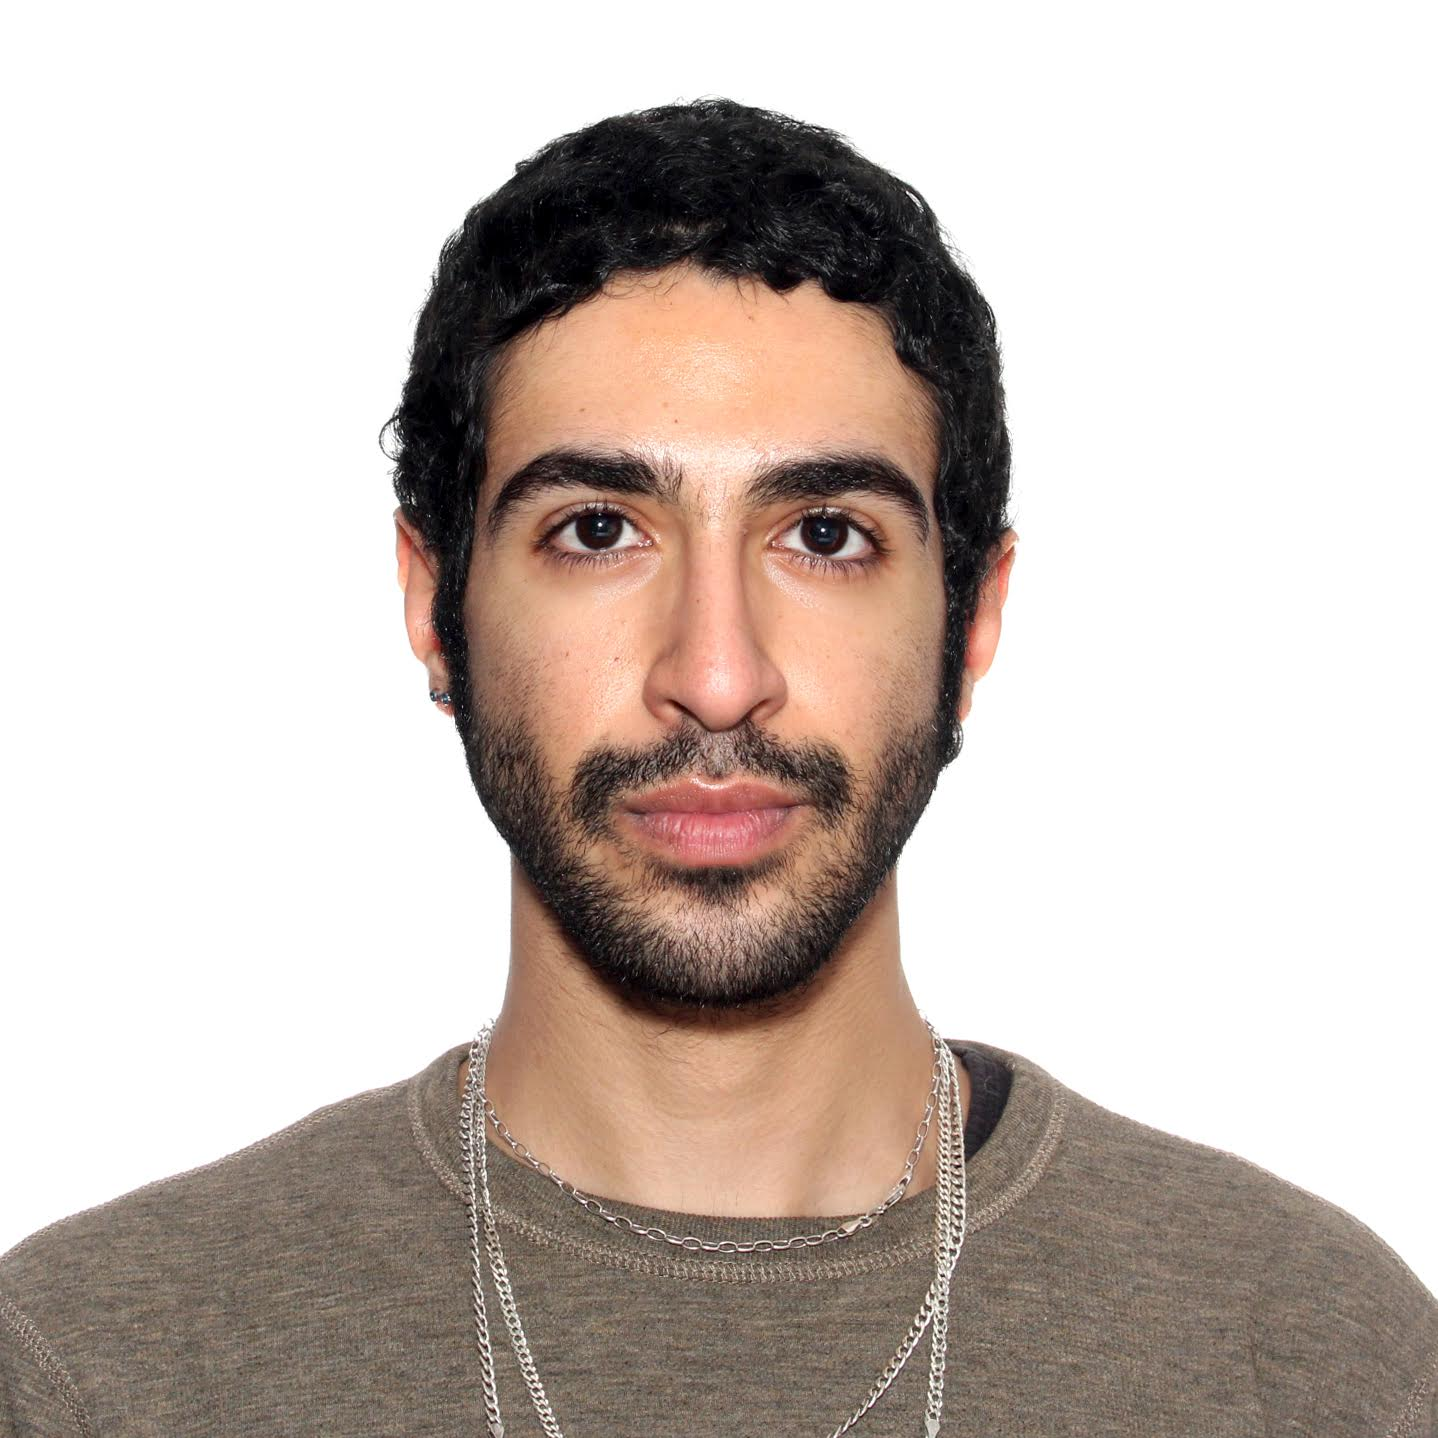
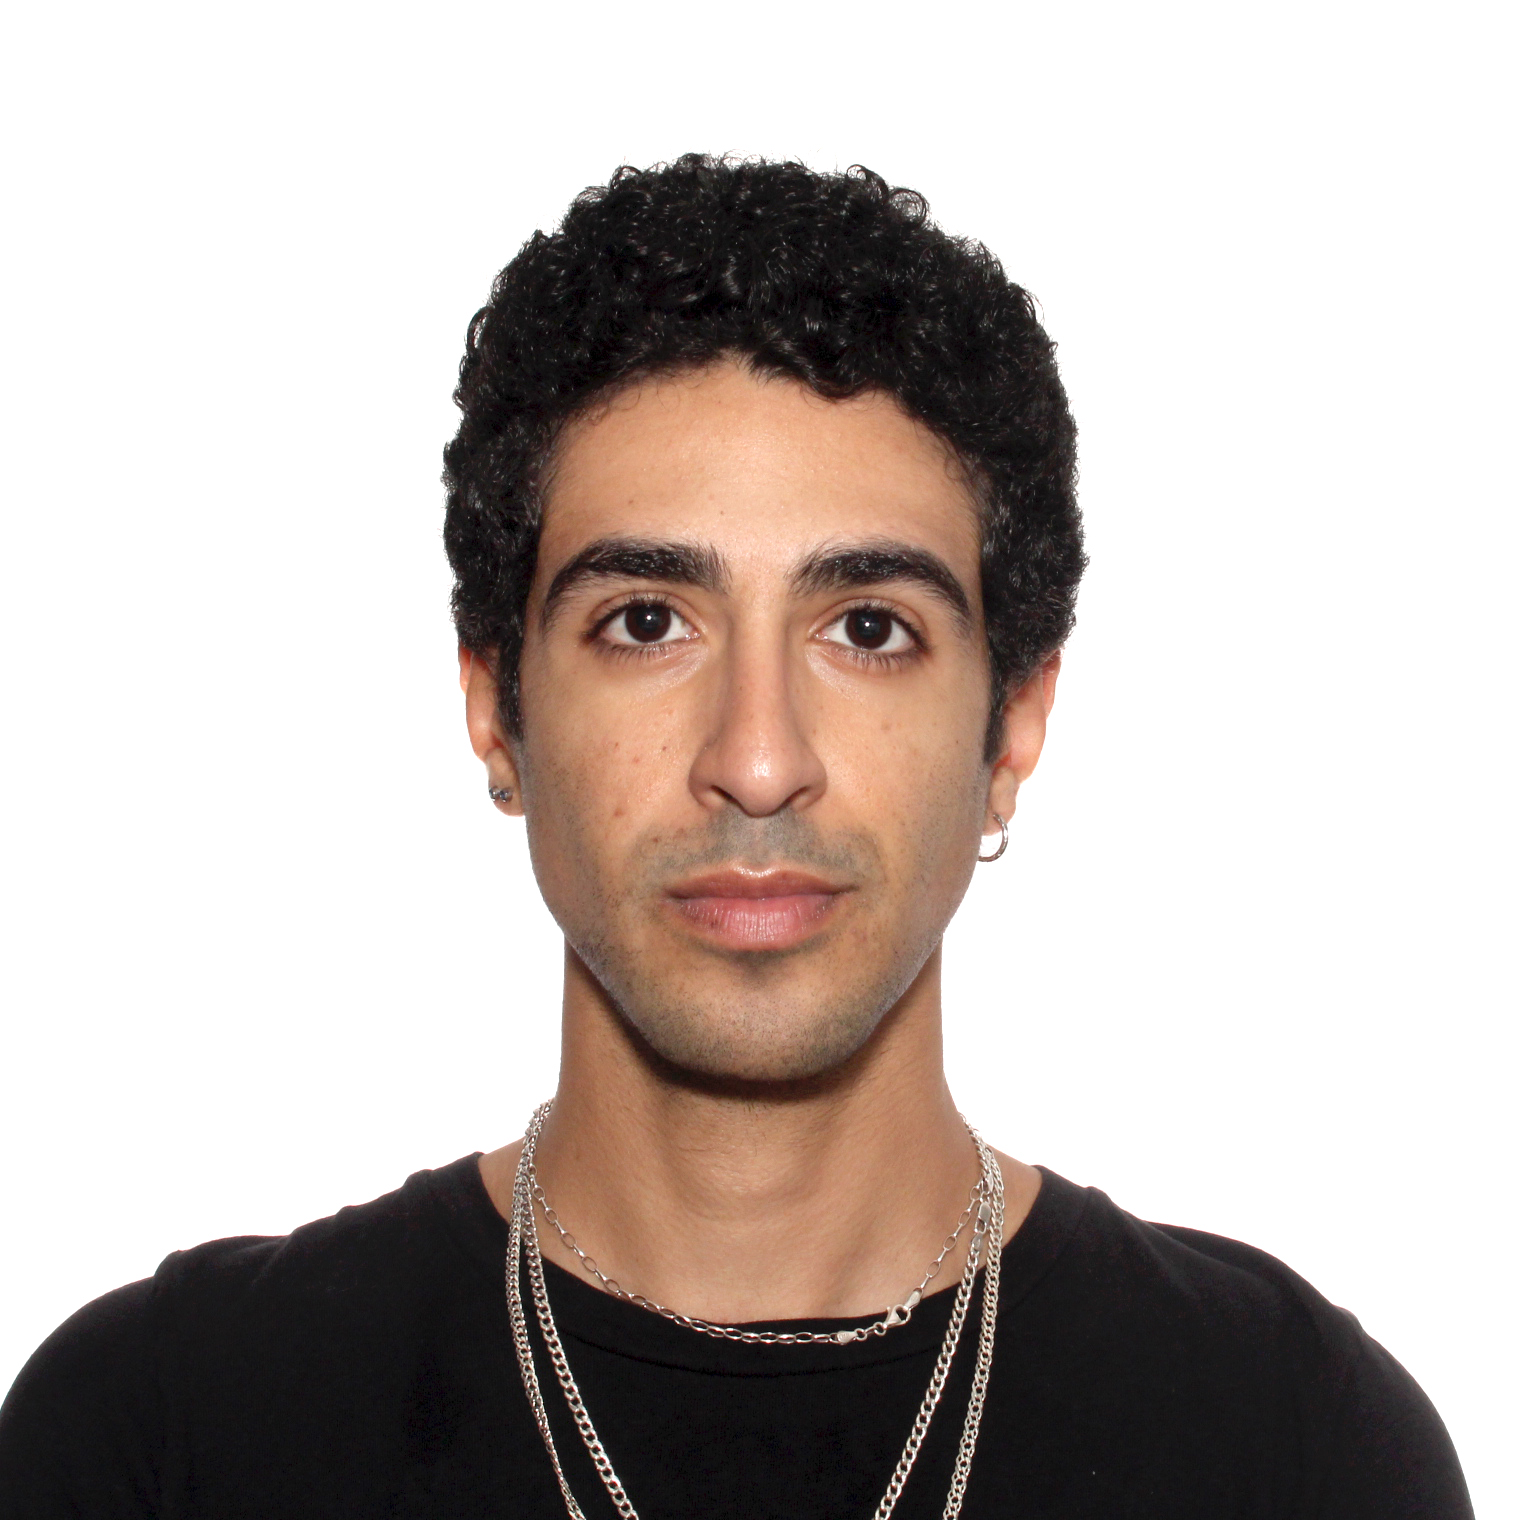
updated descriptons

diff --git a/about.md b/about.md
@@ -3,12 +3,10 @@ layout: about
 title: "about"
 ---
 
-Hi!!! I’m Sammy, a 23-year-old currently based in NYC, working at the intersection of research, computational tools, and social impact. After years in academic research, I stepped back to apply my technical and creative skills toward using AI to better understand and address the often overlooked drivers of inequities, primarily within the healthcare and research setting. 
+Hi! I’m Sammy, a 24-year-old currently based in DC, working at the intersection of clinical research, AI, and health policy. I've spent the last couple of years exploring the different ways my technical skillset could be used to uncover and develop solutions to the pressing issues in healthcare and research. I'm excited to continue doing so as an incoming medical school student at Northwestern's Feinberg School of Medicine.
 
-Right now, I’m building my startup, [Bond Health](https://bondtrials.com). Alongside my co-founders, we’re building proprietary LLMs and ML models to revolutionize how academic institutions and pharmaceutical companies recruit patients. This idea came from my personal frustration with how little of my research generalized to the populations that needed it most. There’s an abundance of data in medical records that can be used to personalize and fix the inefficient, expensive, and exclusive process of clinical trial recruitment. With $150K+ in funding, we are currently running pilots to show that bringing trials to the patient is not only possible but can be done while navigating the legal, regulatory, and privacy challenges that have stalled this solution for years.
+Right now, I'm a biotechnology regulatory fellow at the National Academies drafting policy guidance for emerging cell and gene therapies. My work involves consulting with the FDA, NIH, industry, and Congressional leaders to better prepare and support the future of these technologies. I’ve also been building my startup, [Bond Health](https://bondtrials.com) for the past year. We have built proprietary LLMs that automate and support academic institutions and pharmaceutical companies in recruiting patients end-to-end. With $1.5M in funding, we are running pilots with several clinics to enable more enhanced research operations. 
 
-I recently completed my Master’s in Biomedical Informatics from Harvard Medical School. While in Boston, I conducted computational research across Mass General Hospital, MIT, and Harvard Law School all focused on uncovering, addressing, and preventing inequities in healthcare. Before that, I studied Biology, Data Science, and Linguistics at Northwestern University while conducting in vivo and in vitro research. As part of the Honors Program in Medical Education (HPME), Northwestern’s BS/MD program with the Feinberg School of Medicine, I deferred my matriculation to continue pursuing my research and technical work.
+In regards to my training, I completed my Master’s in Biomedical Informatics from Harvard Medical School in 2025. While in Boston, I conducted computational research across Mass General Hospital, MIT, and Harvard Law School all focused on uncovering, addressing, and preventing inequities in healthcare. Before that, I studied Biology, Data Science, and Linguistics at Northwestern University as part of the Honors Program in Medical Education (HPME).
 
-Beyond my own projects, I’ve also advised initiatives using AI to tackle complex problems, from helping secure venture capital for a platform empowering breast cancer patients to make personalized treatment decisions, to developing pricing strategies for an AIoT startup optimizing industrial fluid dynamics for sustainability. While I’ve enjoyed leading my own work, I’ve found that collaborating and supporting others through the potential of AI is often the most powerful way to drive impact.
-
-Outside of work, you can find me biking along the water, photographing my friends, bouldering to some neo-soul music, or propagating my pothos babies. Please feel free to email me any good overnight oats recipes you know of.
+Outside of work, you can find me biking along the water, photographing my friends, playing NYT games, bouldering to RNB music, or propagating my pothos. Please feel free to email me any good overnight oats recipes you know of.

diff --git a/index.md b/index.md
@@ -3,4 +3,4 @@ layout: home
 title: "Home"
 ---
 
-I’m a researcher developing AI systems that uncover and address the underlying drivers of healthcare inequity. I just finished my Master’s in Biomedical Informatics at Harvard Medical School and am currently building an LLM solution designed to make clinical trial patient recruitment more inclusive and efficient. Please look around to learn more about me and my work!
+I'm an incoming medical student at the Feinberg School of Medicine focused on the responsible development of clinical AI tools. Trained in bioinformatics, I've supported the translation of emerging health technologies across startups and federal policy. Previously at the National Academies, Harvard, and Northwestern. 
